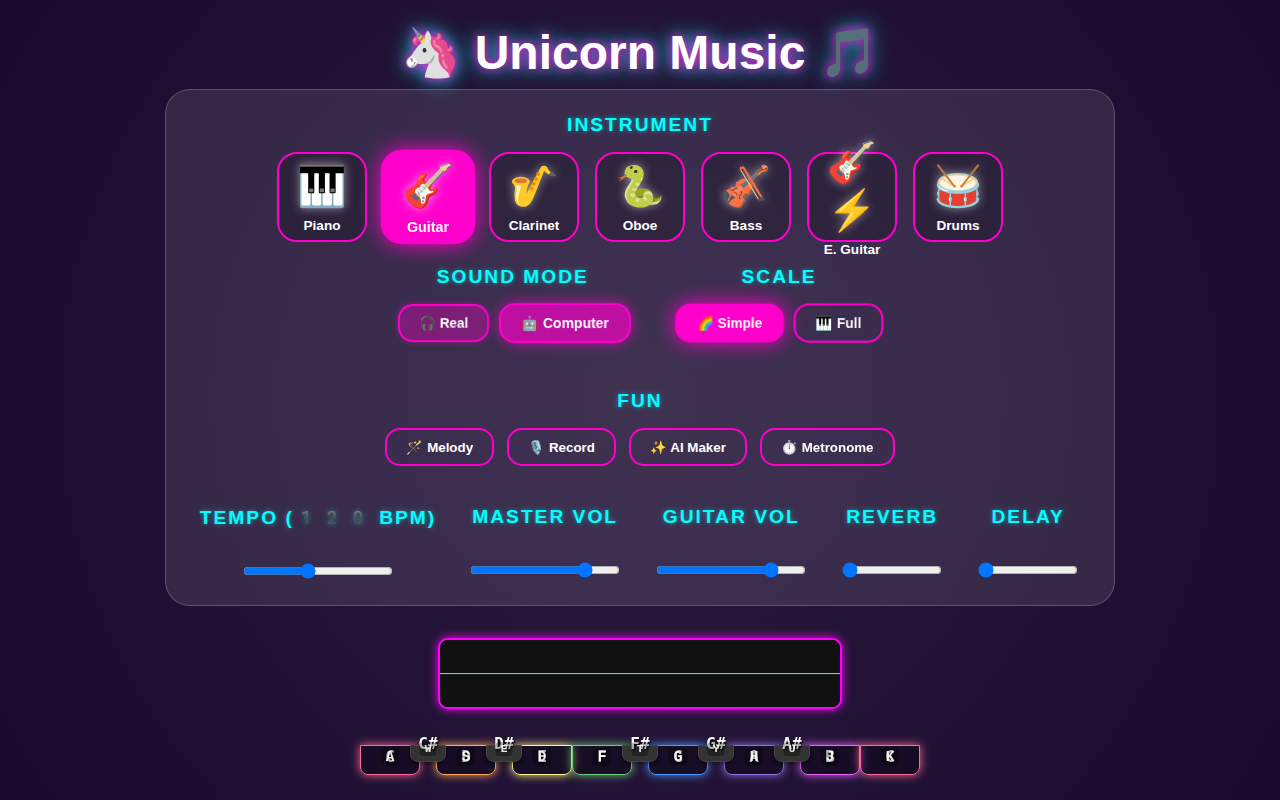
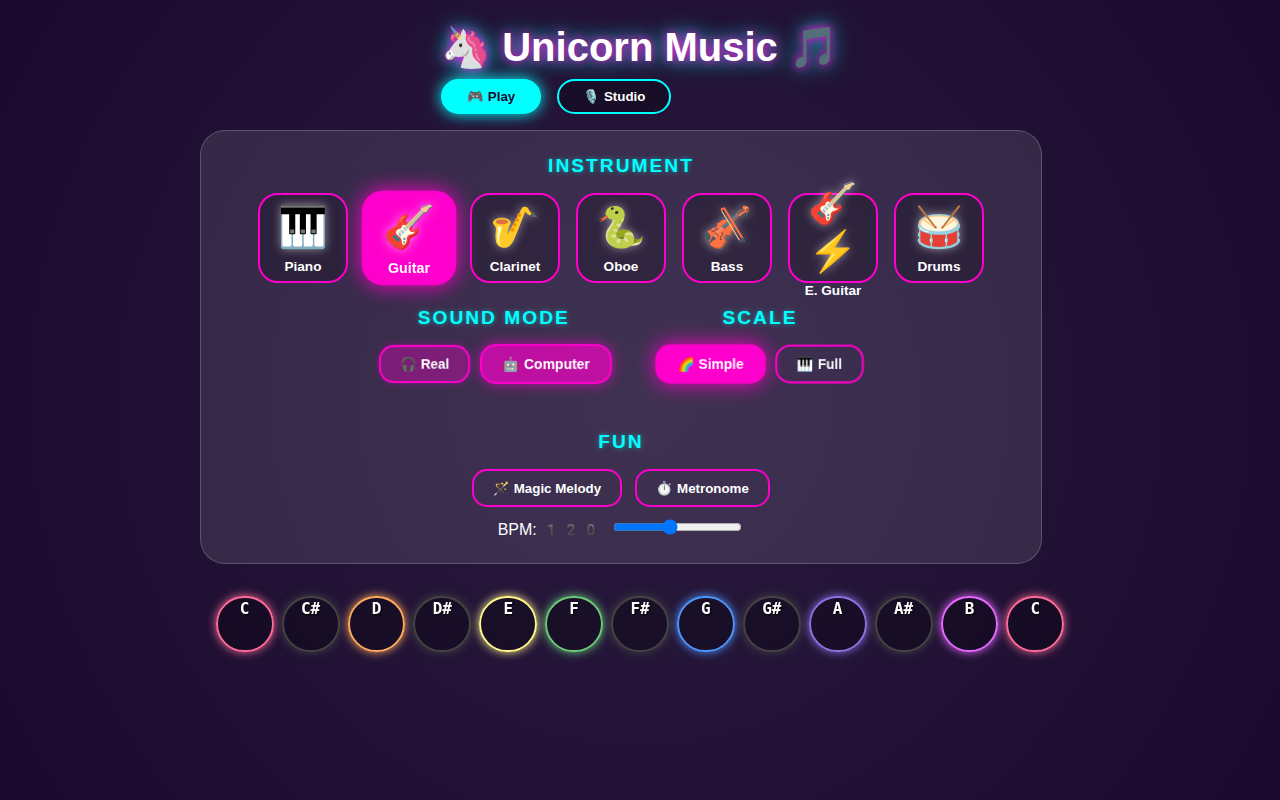
feat: Add metronome and optimize AudioEngine/InstrumentPad
- Implemented Metronome using Tone.MembraneSynth and Tone.Loop in AudioEngine.js.
- Added Metronome UI controls (toggle & BPM slider) in Controls.jsx.
- Optimized AudioEngine.js event listeners to use Set instead of arrays for $O(1)$ unsubscription.
- Optimized InstrumentPad.jsx by extracting key mappings, using useMemo/useCallback, and wrapping NoteButton in React.memo.
- Cleaned up unused variables to fix ESLint warnings.
- Added 3 inline TODOs for future feature ideas.

Changed region(s): [[0.1562, 0.0, 0.8438, 1.0], [0.6562, 0.625, 0.8438, 0.6562]]

diff --git a/src/components/InstrumentPad.jsx b/src/components/InstrumentPad.jsx
@@ -1,4 +1,4 @@
-import React, { useEffect, useState } from 'react';
+import React, { useEffect, useState, useCallback, useMemo } from 'react';
 import NoteButton from './NoteButton';
 import AudioEngine from '../utils/AudioEngine';
 
@@ -50,23 +50,30 @@ const DRUMS = [
   { note: 'G2', color: COLORS.G, label: '🥢' }  // Tom/Sticks
 ];
 
+const SIMPLE_KEYS = ['a', 's', 'd', 'f', 'g', 'h', 'j', 'k', 'l'];
+const FULL_KEY_MAP = {
+  'a': 0, 'w': 1, 's': 2, 'e': 3, 'd': 4, 'f': 5, 't': 6, 'g': 7, 'y': 8, 'h': 9, 'u': 10, 'j': 11, 'k': 12
+};
+
+// TODO: [Feature] custom key mappings
+
 const InstrumentPad = ({ currentScale, currentInstrument }) => {
   const [activeNotes, setActiveNotes] = useState(new Set());
 
-  let notes;
-  if (currentInstrument === 'drums') {
-    notes = DRUMS;
-  } else {
-    notes = SCALES[currentScale] || SCALES.simple;
-  }
+  const notes = useMemo(() => {
+    if (currentInstrument === 'drums') {
+      return DRUMS;
+    }
+    return SCALES[currentScale] || SCALES.simple;
+  }, [currentInstrument, currentScale]);
 
-  const handleStart = (note) => {
+  const handleStart = useCallback((note) => {
     AudioEngine.startNote(note);
-  };
+  }, []);
 
-  const handleStop = (note) => {
+  const handleStop = useCallback((note) => {
     AudioEngine.stopNote(note);
-  };
+  }, []);
 
   useEffect(() => {
     // Subscribe to AudioEngine note events (visual feedback for Magic Melody)
@@ -92,13 +99,9 @@ const InstrumentPad = ({ currentScale, currentInstrument }) => {
       let index = -1;
 
       if (currentInstrument === 'drums' || currentScale === 'simple') {
-        const keys = ['a', 's', 'd', 'f', 'g', 'h', 'j', 'k', 'l'];
-        index = keys.indexOf(key);
+        index = SIMPLE_KEYS.indexOf(key);
       } else if (currentScale === 'full') {
-        const keyMap = {
-          'a': 0, 'w': 1, 's': 2, 'e': 3, 'd': 4, 'f': 5, 't': 6, 'g': 7, 'y': 8, 'h': 9, 'u': 10, 'j': 11, 'k': 12
-        };
-        index = keyMap[key] !== undefined ? keyMap[key] : -1;
+        index = FULL_KEY_MAP[key] !== undefined ? FULL_KEY_MAP[key] : -1;
       }
 
       if (index >= 0 && index < notes.length) {
@@ -113,13 +116,9 @@ const InstrumentPad = ({ currentScale, currentInstrument }) => {
       let index = -1;
 
       if (currentInstrument === 'drums' || currentScale === 'simple') {
-        const keys = ['a', 's', 'd', 'f', 'g', 'h', 'j', 'k', 'l'];
-        index = keys.indexOf(key);
+        index = SIMPLE_KEYS.indexOf(key);
       } else if (currentScale === 'full') {
-        const keyMap = {
-          'a': 0, 'w': 1, 's': 2, 'e': 3, 'd': 4, 'f': 5, 't': 6, 'g': 7, 'y': 8, 'h': 9, 'u': 10, 'j': 11, 'k': 12
-        };
-        index = keyMap[key] !== undefined ? keyMap[key] : -1;
+        index = FULL_KEY_MAP[key] !== undefined ? FULL_KEY_MAP[key] : -1;
       }
 
       if (index >= 0 && index < notes.length) {
@@ -140,7 +139,7 @@ const InstrumentPad = ({ currentScale, currentInstrument }) => {
       window.removeEventListener('keydown', handleKeyDown);
       window.removeEventListener('keyup', handleKeyUp);
     };
-  }, [notes, currentInstrument, currentScale]);
+  }, [notes, currentInstrument, currentScale, handleStart, handleStop]);
 
   return (
     <div className={`instrument-pad ${currentInstrument === 'drums' ? 'simple' : currentScale}`}>

diff --git a/src/utils/AudioEngine.js b/src/utils/AudioEngine.js
@@ -1,10 +1,12 @@
 import * as Tone from 'tone';
 
+// TODO: [Feature] individual instrument volume controls
+
 class AudioEngine {
     constructor() {
         this.isLoading = false;
-        this.listeners = [];
-        this.noteListeners = [];
+        this.listeners = new Set();
+        this.noteListeners = new Set();
 
         this.instruments = {
             // Samplers
@@ -35,6 +37,12 @@ class AudioEngine {
         this.currentInstrument = 'piano'; // 'piano' | 'guitar' | 'clarinet' | 'doubleBass' | 'drums' | 'oboe' | 'electricGuitar'
         this.soundType = 'sampled'; // 'sampled' | 'synthesized'
         this.initialized = false;
+
+        // Metronome properties
+        this.metronomeSynth = null;
+        this.metronomeLoop = null;
+        this.metronomeActive = false;
+        this.metronomeBPM = 120;
     }
 
     async initialize() {
@@ -45,6 +53,10 @@ class AudioEngine {
 
         // Create Master Limiter to prevent crackling/clipping
         this.masterLimiter = new Tone.Limiter(-1).toDestination();
+
+        // --- METRONOME SYNTH ---
+        this.metronomeSynth = new Tone.MembraneSynth().toDestination();
+        this.metronomeSynth.volume.value = -10;
 
         // --- SYNTHESIZERS ---
 
@@ -130,17 +142,17 @@ class AudioEngine {
     }
 
     subscribe(callback) {
-        this.listeners.push(callback);
+        this.listeners.add(callback);
         callback(this.isLoading);
         return () => {
-            this.listeners = this.listeners.filter(cb => cb !== callback);
+            this.listeners.delete(callback);
         };
     }
 
     subscribeToNotes(callback) {
-        this.noteListeners.push(callback);
+        this.noteListeners.add(callback);
         return () => {
-            this.noteListeners = this.noteListeners.filter(cb => cb !== callback);
+            this.noteListeners.delete(callback);
         };
     }
 
@@ -292,6 +304,50 @@ class AudioEngine {
         }).connect(this.masterLimiter));
     }
 
+
+    toggleMetronome() {
+        if (!this.initialized) return false;
+
+        if (this.metronomeActive) {
+            if (this.metronomeLoop) {
+                this.metronomeLoop.stop();
+                this.metronomeLoop.dispose();
+                this.metronomeLoop = null;
+            }
+            this.metronomeActive = false;
+        } else {
+            Tone.Transport.bpm.value = this.metronomeBPM;
+
+            // Create loop
+            this.metronomeLoop = new Tone.Loop((time) => {
+                this.metronomeSynth.triggerAttackRelease("C2", "8n", time);
+            }, "4n");
+
+            // Start transport if it's not running
+            if (Tone.Transport.state !== "started") {
+                Tone.Transport.start();
+            }
+
+            this.metronomeLoop.start(0);
+            this.metronomeActive = true;
+        }
+
+        return this.metronomeActive;
+    }
+
+    setMetronomeBPM(bpm) {
+        this.metronomeBPM = bpm;
+        if (this.initialized) {
+            Tone.Transport.bpm.value = bpm;
+        }
+    }
+
+    getMetronomeStatus() {
+        return {
+            active: this.metronomeActive,
+            bpm: this.metronomeBPM
+        };
+    }
 
     playMelody(melody) {
         if (!this.initialized) return;

diff --git a/src/components/Controls.jsx b/src/components/Controls.jsx
@@ -1,11 +1,25 @@
-import React from 'react';
+import React, { useState } from 'react';
 import AudioEngine from '../utils/AudioEngine';
 import { INSTRUMENTS, MAGIC_MELODY } from '../constants';
 
+// TODO: [Feature] Custom theming
+
 const Controls = ({ currentInstrument, setInstrument, currentScale, setScale, soundType, setSoundType }) => {
+  const [metronomeStatus, setMetronomeStatus] = useState(AudioEngine.getMetronomeStatus());
 
   const handleMagicClick = () => {
     AudioEngine.playMelody(MAGIC_MELODY);
+  };
+
+  const handleMetronomeToggle = () => {
+    AudioEngine.toggleMetronome();
+    setMetronomeStatus(AudioEngine.getMetronomeStatus());
+  };
+
+  const handleBPMChange = (e) => {
+    const newBPM = parseInt(e.target.value, 10);
+    AudioEngine.setMetronomeBPM(newBPM);
+    setMetronomeStatus(AudioEngine.getMetronomeStatus());
   };
 
   return (
@@ -76,6 +90,22 @@ const Controls = ({ currentInstrument, setInstrument, currentScale, setScale, so
                 <button className="control-btn" onClick={handleMagicClick}>
                     🪄 Magic Melody
                 </button>
+                <button
+                  className={`control-btn ${metronomeStatus.active ? 'active' : ''}`}
+                  onClick={handleMetronomeToggle}
+                >
+                    ⏱ Metronome
+                </button>
+            </div>
+            <div className="bpm-control" style={{ marginTop: '10px' }}>
+                <label style={{ marginRight: '10px' }}>BPM: {metronomeStatus.bpm}</label>
+                <input
+                  type="range"
+                  min="60"
+                  max="200"
+                  value={metronomeStatus.bpm}
+                  onChange={handleBPMChange}
+                />
             </div>
          </div>
       </div>

diff --git a/src/components/NoteButton.jsx b/src/components/NoteButton.jsx
@@ -1,7 +1,7 @@
-import React, { useState, useEffect } from 'react';
+import React, { useState, useEffect, memo } from 'react';
 import Sparkle from './Sparkle';
 
-const NoteButton = ({ note, label, color, onStart, onStop, forceActive }) => {
+const NoteButton = memo(({ note, label, color, onStart, onStop, forceActive }) => {
   const [isActive, setIsActive] = useState(false);
   const [sparkles, setSparkles] = useState([]);
 
@@ -65,6 +65,8 @@ const NoteButton = ({ note, label, color, onStart, onStop, forceActive }) => {
       {sparkles.map(s => <Sparkle key={s.id} style={s.style} />)}
     </button>
   );
-};
+});
+
+NoteButton.displayName = 'NoteButton';
 
 export default NoteButton;

diff --git a/src/components/RecordingControls.jsx b/src/components/RecordingControls.jsx
@@ -10,7 +10,7 @@ const RecordingControls = ({ isAudioStarted }) => {
     useEffect(() => {
         if (isAudioStarted) {
             RecordingEngine.initialize();
-            RecordingEngine.onRecordingStateChange = (recording, _source) => {
+            RecordingEngine.onRecordingStateChange = (recording) => {
                 setIsRecording(recording);
             };
         }

diff --git a/src/components/LayerManager.jsx b/src/components/LayerManager.jsx
@@ -20,7 +20,7 @@ const LayerManager = ({ isAudioStarted }) => {
                 volume: l.volume
             })));
 
-            RecordingEngine.onLayerAdded = (_layer) => {
+            RecordingEngine.onLayerAdded = () => {
                 setLayers(RecordingEngine.layers.map(l => ({
                     id: l.id,
                     name: l.name,

diff --git a/verify_layout.py b/verify_layout.py
@@ -4,7 +4,7 @@ def run():
     with sync_playwright() as p:
         browser = p.chromium.launch(headless=True)
         page = browser.new_page()
-        page.goto("http://localhost:5173")
+        page.goto("http://localhost:5175")
         page.click(".start-overlay")
         page.wait_for_selector(".controls-container")
 

diff --git a/verification_script.py b/verification_script.py
@@ -9,7 +9,7 @@ def verify_app():
         page = context.new_page()
 
         print("Navigating to app...")
-        page.goto("http://localhost:5173")
+        page.goto("http://localhost:5175")
 
         # Wait for start overlay
         print("Waiting for start overlay...")

diff --git a/verify_loading.py b/verify_loading.py
@@ -7,7 +7,7 @@ def run():
         page = browser.new_page()
 
         print("Navigating to app...")
-        page.goto("http://localhost:5173")
+        page.goto("http://localhost:5175")
 
         # Start the audio engine
         print("Clicking Start...")
